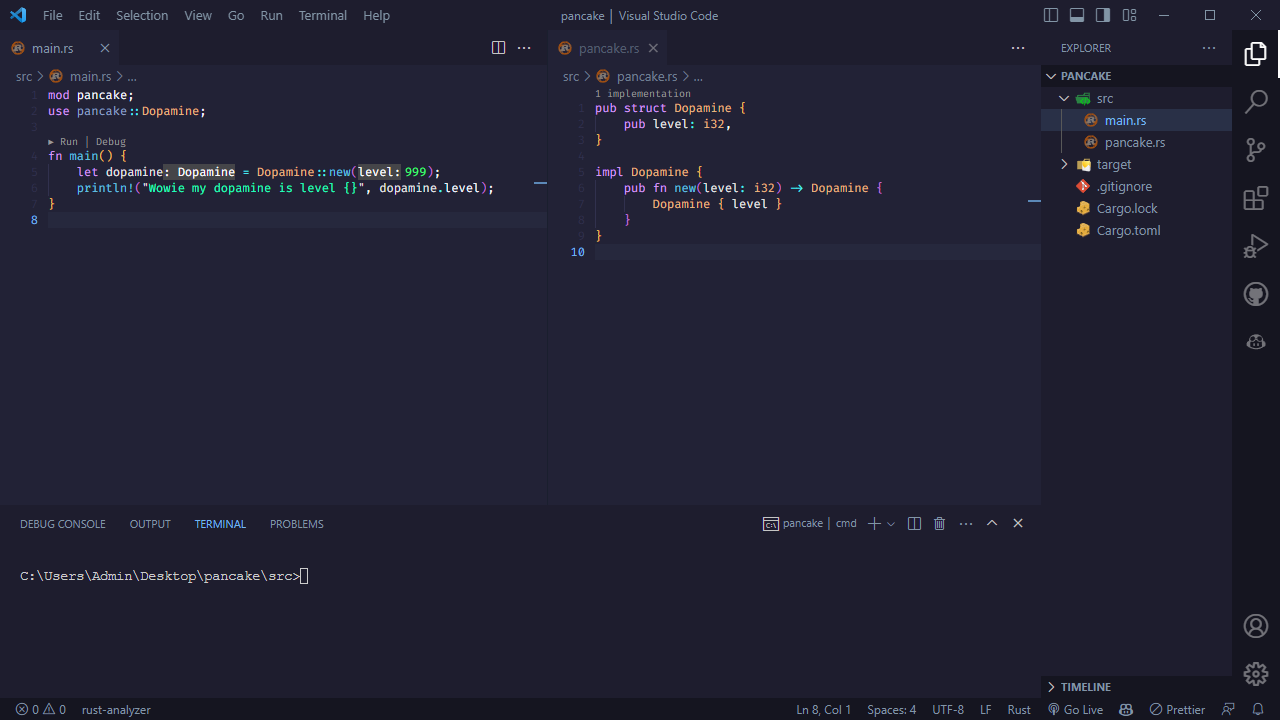
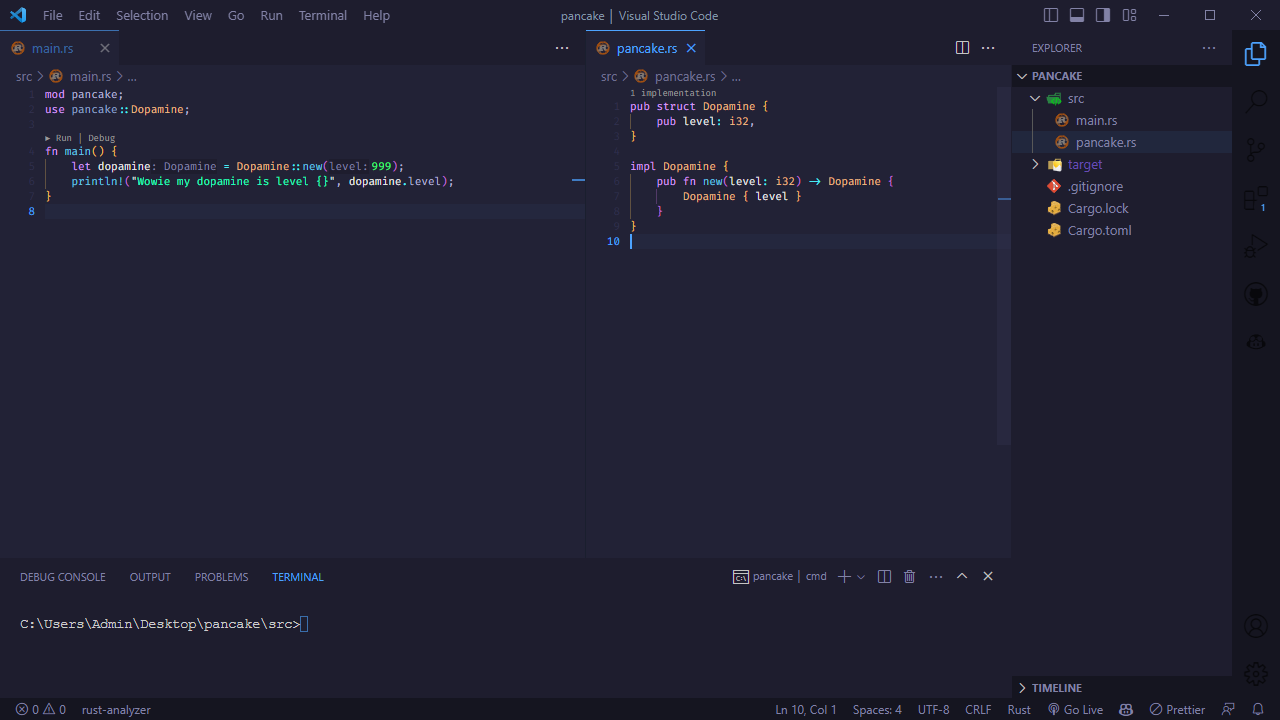
Perfectionism

diff --git a/CHANGELOG.md b/CHANGELOG.md
@@ -1,3 +1,17 @@
+###### 2022-3-7
+
+- Improved colors for errors, warnings, info, and hints
+- Improved match highlight colors
+- Improved overview ruler colors
+- Improved contrast of main focus color
+- Improved contrast of status bar debugging
+- Improved editor whitespace colors
+- Improved badge foreground
+- Improved terminal cursor
+- Improved buttons colors
+- Reduced intensity of the diff editor line changes
+- Changed status bar foreground to dark mode
+
 ###### 2022-3-5
 
 - Improved interaction with the editor by selecting a uniform color for the cursor, text selection,
